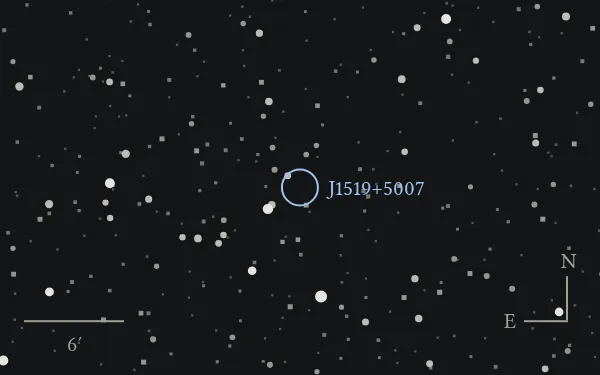
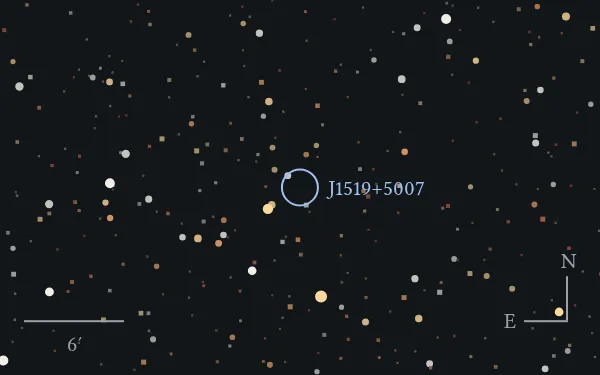
Slate carmine palette for both themes
Light: slate paper a step down from white, navy-black ink. Dark: a blue-graphite night. Carmine
marks section heads, figure numbers and dates in both, and the second walker and agent; code
colours re-tuned for the new code backgrounds, every text and code colour at least 4.5:1.

diff --git a/src/app.css b/src/app.css
@@ -7,10 +7,10 @@
 @font-face { font-family: 'NCM Mono Web'; src: url('/fonts/ncm-mono.woff2') format('woff2'); font-weight: 400; font-style: normal; font-display: swap; }
 
 :root {
-	--bg: #141516; --ink: #e7e4dd; --muted: #a29e96; --link: #9dc4f2; --line: #2b2d31;
-	--matte: #0e1013; --frame: #0e1013; --code: #1a1b1e; --lat: #3c434c; --latmaj: #56606c; --path: var(--link); --home: var(--ink);
+	--bg: #121519; --ink: #e4e7ec; --muted: #9ba2ad; --link: #9cc2f2; --accent: #ec8a98; --line: #272c33;
+	--matte: #0c0f13; --frame: #0c0f13; --code: #181c21; --lat: #353d47; --latmaj: #4f5966; --path: var(--link); --home: var(--ink);
 	/* Code colours, each at least 4.5:1 on --code. */
-	--c-keyword: #9dc4f2; --c-string: #a8cc8c; --c-number: #e2b07a; --c-type: #c9a9ec; --c-function: #86d2c4; --c-comment: #9a968e;
+	--c-keyword: #9cc2f2; --c-string: #a9cf8f; --c-number: #ef9ba6; --c-type: #c9abec; --c-function: #86cfe0; --c-comment: #959ca7;
 	--serif: 'Libertinus Web', 'Libertinus Serif', 'Linux Libertine O', 'DejaVu Serif', serif;
 	--mono: 'NCM Mono Web', 'Latin Modern Mono', 'DejaVu Sans Mono', monospace;
 	--measure: 31em;
@@ -22,18 +22,19 @@
 	--gutter-right: max(var(--gutter), env(safe-area-inset-right));
 	color-scheme: dark;
 }
-/* Light: warm paper rather than cool grey, with screenshots on a paper-toned frame. Text colours
-   are at least 4.5:1 on --bg; code colours on --code. */
+/* "Slate carmine": slate paper, a cool blue-grey a step down from white, navy-black ink, and carmine
+   (a referee's red pen) for section heads, figure labels and dates; dark mode is a blue-graphite night. Text colours are at least 4.5:1 on --bg; code
+   colours on --code. */
 @media (prefers-color-scheme: light) {
 	:root:not([data-theme='dark']) {
-		--bg: #f6f3ec; --ink: #24211c; --muted: #5e584d; --link: #1d4c95; --line: #dedad1; --frame: #ebe6db;
-		--code: #ede9df; --lat: #d3cdbf; --latmaj: #b3ab9b;
+		--bg: #dde2e8; --ink: #1b2230; --muted: #4f5868; --link: #1d4a93; --accent: #9c2438; --line: #c4cad2; --frame: #d1d6dd;
+		--code: #d3d8df; --lat: #bfc5cd; --latmaj: #a1a8b2;
 		color-scheme: light;
 	}
 }
 :root[data-theme='light'] {
-	--bg: #f6f3ec; --ink: #24211c; --muted: #5e584d; --link: #1d4c95; --line: #dedad1; --frame: #ebe6db;
-	--code: #ede9df; --lat: #d3cdbf; --latmaj: #b3ab9b;
+	--bg: #dde2e8; --ink: #1b2230; --muted: #4f5868; --link: #1d4a93; --accent: #9c2438; --line: #c4cad2; --frame: #d1d6dd;
+	--code: #d3d8df; --lat: #bfc5cd; --latmaj: #a1a8b2;
 	color-scheme: light;
 }
 
@@ -99,6 +100,8 @@ footer.site a { color: var(--muted); padding-block: 10px; }
 /* Caps and small caps, as a paper sets a section head: a full capital, then small caps. */
 h2.sec { font-size: 1.3rem; font-weight: 400; font-variant-caps: small-caps; letter-spacing: 0.02em; margin: 0 0 22px; }
 h2.sec a { color: inherit; text-decoration: none; }
+/* The accent marks the paper's furniture: section heads, figure numbers and dates. */
+h2.sec, .post-body h2, .hello figcaption i, .label .meta i, ul.dated time, ul.dated .when { color: var(--accent); }
 
 /* Projects: screenshot on a matte, label underneath */
 .projects { display: grid; grid-template-columns: repeat(2, minmax(0, 1fr)); gap: 56px var(--col-gap); margin-bottom: 96px; }

diff --git a/src/lib/utils/code-theme.ts b/src/lib/utils/code-theme.ts
@@ -1,26 +1,26 @@
 import type { ThemeRegistration } from 'shiki/core';
 
 // The light theme for code blocks: softer tones than an editor theme, more token kinds than the
-// CSS-variables theme, every colour at least 4.5:1 on the light code background (#ede9df).
+// CSS-variables theme, every colour at least 4.5:1 on the light code background (#d3d8df).
 export const siteLight: ThemeRegistration = {
 	name: 'site-light',
 	type: 'light',
-	colors: { 'editor.background': '#ede9df', 'editor.foreground': '#2e2a24' },
+	colors: { 'editor.background': '#d3d8df', 'editor.foreground': '#1b2230' },
 	tokenColors: [
-		{ scope: ['comment', 'punctuation.definition.comment'], settings: { foreground: '#655f55', fontStyle: 'italic' } },
-		{ scope: ['keyword', 'storage.type', 'storage.modifier', 'keyword.control', 'keyword.other'], settings: { foreground: '#743a96' } },
-		{ scope: ['keyword.operator', 'punctuation'], settings: { foreground: '#58544c' } },
-		{ scope: ['string', 'string.quoted', 'punctuation.definition.string'], settings: { foreground: '#3a6527' } },
-		{ scope: ['string.regexp', 'constant.character.escape'], settings: { foreground: '#9a351c' } },
-		{ scope: ['constant.numeric', 'constant.language', 'constant.other', 'variable.language'], settings: { foreground: '#944a14' } },
+		{ scope: ['comment', 'punctuation.definition.comment'], settings: { foreground: '#565d69', fontStyle: 'italic' } },
+		{ scope: ['keyword', 'storage.type', 'storage.modifier', 'keyword.control', 'keyword.other'], settings: { foreground: '#6a2f8e' } },
+		{ scope: ['keyword.operator', 'punctuation'], settings: { foreground: '#4f5868' } },
+		{ scope: ['string', 'string.quoted', 'punctuation.definition.string'], settings: { foreground: '#2f6224' } },
+		{ scope: ['string.regexp', 'constant.character.escape'], settings: { foreground: '#9c2438' } },
+		{ scope: ['constant.numeric', 'constant.language', 'constant.other', 'variable.language'], settings: { foreground: '#9c2438' } },
 		{
 			scope: ['entity.name.function', 'support.function', 'meta.function-call.generic', 'variable.function'],
-			settings: { foreground: '#1d5791' }
+			settings: { foreground: '#1d4a93' }
 		},
 		{
 			scope: ['entity.name.type', 'entity.name.class', 'support.type', 'support.class', 'entity.other.inherited-class'],
-			settings: { foreground: '#0d6464' }
+			settings: { foreground: '#0d5f66' }
 		},
-		{ scope: ['variable.parameter', 'variable.parameter.function-call'], settings: { foreground: '#7f4d27' } }
+		{ scope: ['variable.parameter', 'variable.parameter.function-call'], settings: { foreground: '#7a3a48' } }
 	]
 };

diff --git a/src/lib/about-scene/scene.js b/src/lib/about-scene/scene.js
@@ -48,14 +48,14 @@ export function mountScene(fig) {
     COL.push(mix(0.12)); // 19: far side of the globe
     COL.push(BG); // 20: bot eyes, drawn last as holes
     // 21..45: star colours from Gaia BP-RP (hot blue to cool red), each at five brightnesses by G.
-    const rgbOf = h => `rgb(${h.join()})`, over = (c, a) => rgbOf(c.map((v, k) => Math.round(v * a + hex(css.getPropertyValue('--bg'), '141516')[k] * (1 - a))));
+    const rgbOf = h => `rgb(${h.join()})`, over = (c, a) => rgbOf(c.map((v, k) => Math.round(v * a + hex(css.getPropertyValue('--bg'), '121519')[k] * (1 - a))));
     const STAR = light ? [[47, 95, 174], [58, 53, 46], [154, 106, 20], [176, 86, 30], [168, 50, 42]] : [[169, 196, 255], [242, 239, 230], [255, 217, 154], [255, 176, 112], [255, 128, 96]];
     for (const c of STAR) for (const a of [0.32, 0.46, 0.62, 0.8, 1]) COL.push(over(c, a));
     // 46..50: LiDAR returns by range, near (warm) to far (cool), as point-cloud viewers colour them.
     const RANGE = light ? [[176, 71, 42], [166, 114, 26], [90, 85, 76], [59, 106, 168], [42, 79, 154]] : [[255, 138, 92], [244, 184, 96], [232, 226, 200], [143, 192, 232], [106, 143, 216]];
     for (const c of RANGE) COL.push(rgbOf(c));
     // 51..54: one colour per agent (and per walker: 51 Brownian, 52 Levy).
-    const CAT = light ? [[42, 90, 168], [176, 71, 42], [47, 122, 82], [154, 106, 20]] : [[111, 163, 240], [239, 125, 90], [108, 199, 154], [227, 178, 90]];
+    const CAT = light ? [[42, 90, 168], [156, 36, 56], [47, 122, 82], [154, 106, 20]] : [[111, 163, 240], [236, 138, 152], [108, 199, 154], [227, 178, 90]]; // the second in the carmine accent
     for (const c of CAT) COL.push(rgbOf(c));
     CATC = CAT.map(rgbOf);
     OUT_B = light ? 3 : 5; // coastlines: on paper, full ink would outweigh the data points

diff --git a/src/lib/about-scene/points.js b/src/lib/about-scene/points.js
@@ -5,7 +5,7 @@
 export function inkOver(el) {
   const css = getComputedStyle(el);
   const hex = (v, fallback) => { const m = /^#([0-9a-f]{6})$/i.exec((v || '').trim()); const h = m ? m[1] : fallback; return [0, 2, 4].map(i => parseInt(h.slice(i, i + 2), 16)); };
-  const bg = hex(css.getPropertyValue('--bg'), '141516'), ink = hex(css.getPropertyValue('--ink'), 'e7e4dd');
+  const bg = hex(css.getPropertyValue('--bg'), '121519'), ink = hex(css.getPropertyValue('--ink'), 'e4e7ec');
   const rgb = c => `rgb(${c.join()})`;
   const mixc = a => ink.map((c, i) => Math.round(c * a + bg[i] * (1 - a)));
   return { css, hex, light: bg[0] > 128, bg: rgb(bg), mixc, mix: a => rgb(mixc(a)) };
